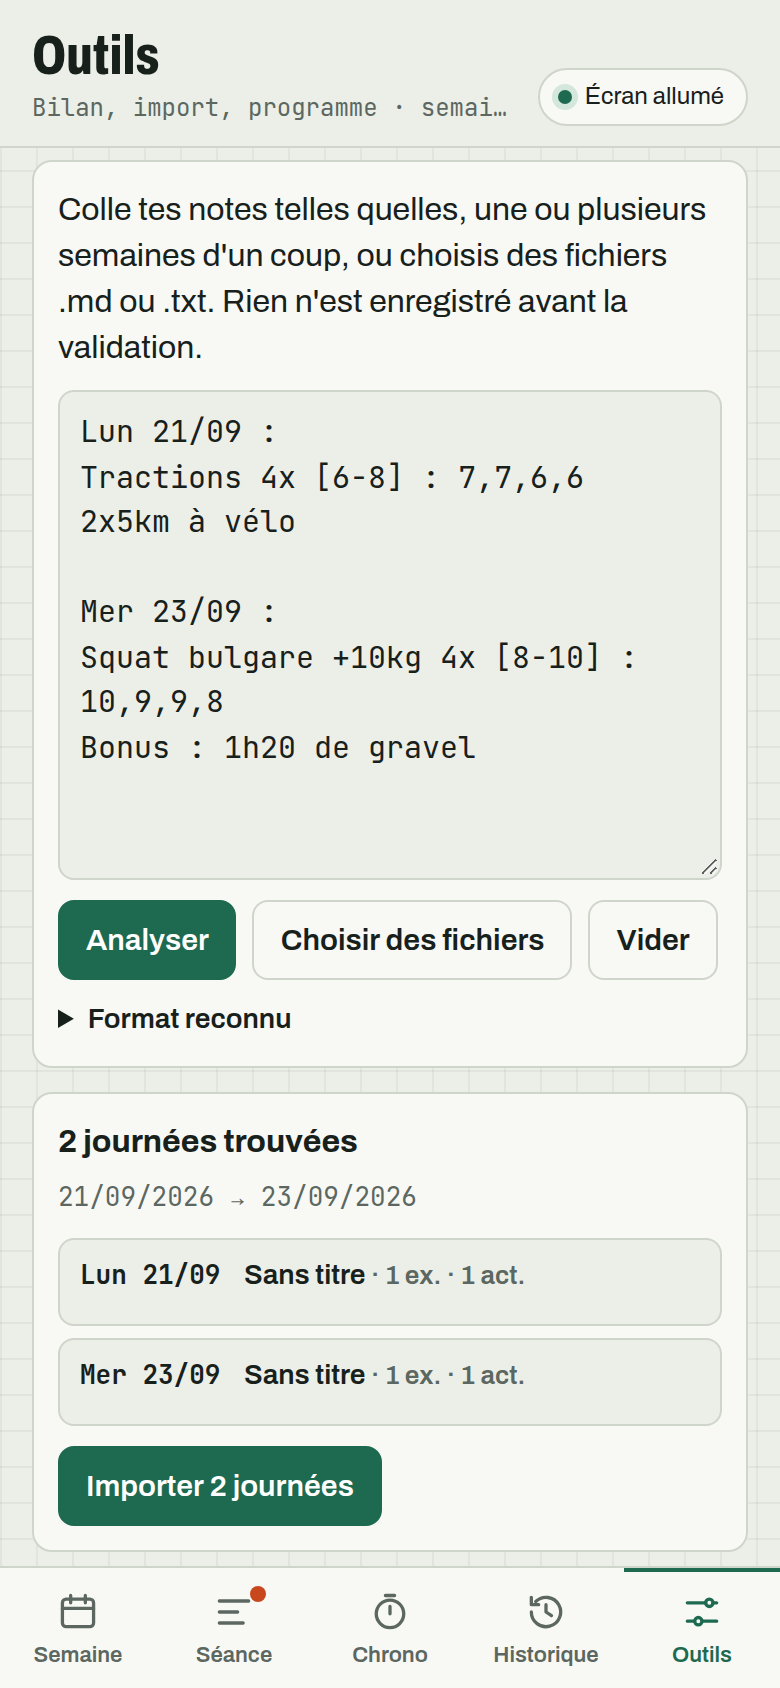
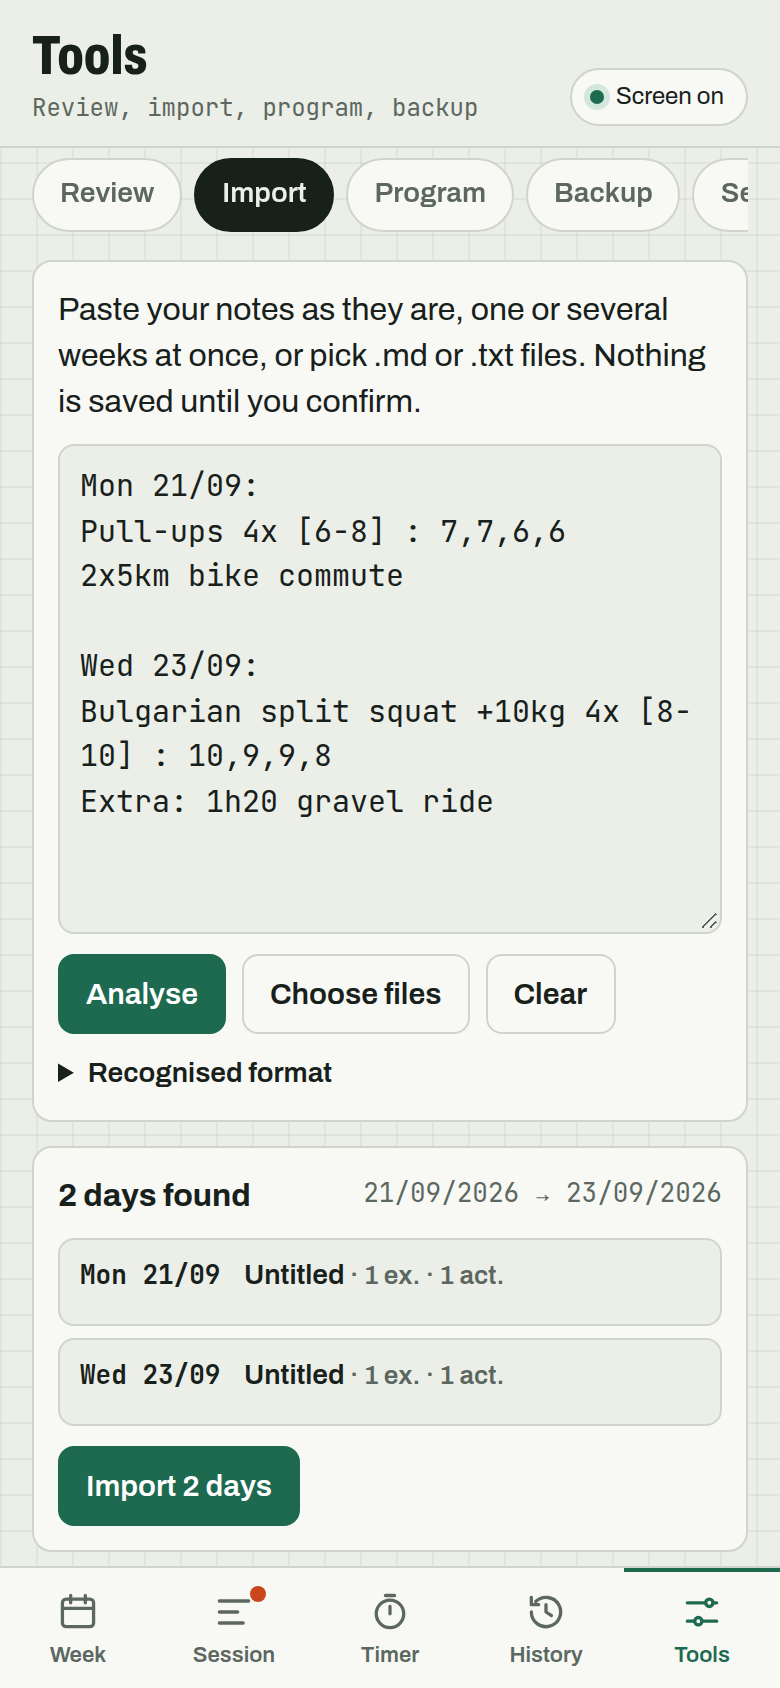
docs(readme): English screenshots, language section and bilingual markers

diff --git a/README.md b/README.md
@@ -15,19 +15,19 @@ Most workout apps make you pick every exercise from a built-in library. If your 
 LightGym sits in between. You write the way you would in a notebook:
 
 ```
-Tractions +12kg 4x [5-6] : 6,5,4,4
+Pull-ups +12kg 4x [5-6] : 6,5,4,4
 ```
 
 The app reads the exercise name, load, number of sets, target range and your results, and highlights the sets that reach the top of the range. It never rejects a line: anything it doesn't understand is kept as a note.
 
 <p align="center">
-  <img src="docs/screenshots/semaine.png" width="220" alt="Week view: done and planned sessions, cycling and running distance">
-  <img src="docs/screenshots/seance.png" width="220" alt="Session in progress: supersets, logged sets and rest timer">
-  <img src="docs/screenshots/chrono.png" width="220" alt="Jump rope interval timer, 60 s work / 20 s rest">
+  <img src="docs/screenshots/week.png" width="220" alt="Week view: done and planned sessions, cycling and running distance">
+  <img src="docs/screenshots/session.png" width="220" alt="Session in progress: supersets, logged sets and rest timer">
+  <img src="docs/screenshots/timer.png" width="220" alt="Jump rope interval timer, 60 s work / 20 s rest">
 </p>
 <p align="center">
-  <img src="docs/screenshots/calendrier.png" width="220" alt="Monthly calendar of sessions and activities">
-  <img src="docs/screenshots/exercice.png" width="220" alt="Exercise history with its progress curve">
+  <img src="docs/screenshots/calendar.png" width="220" alt="Monthly calendar of sessions and activities">
+  <img src="docs/screenshots/exercise.png" width="220" alt="Exercise history with its progress curve">
   <img src="docs/screenshots/import.png" width="220" alt="Notes import: preview of the recognised days">
 </p>
 
@@ -52,27 +52,31 @@ The app reads the exercise name, load, number of sets, target range and your res
 
 ## Your data stays with you
 
-There is no account, no server and no tracking. Everything is stored in your device's browser. You can export and restore a JSON backup from Outils → Sauvegarde (Tools → Backup), which is also how you move between devices.
+There is no account, no server and no tracking. Everything is stored in your device's browser. You can export and restore a JSON backup from Tools → Backup, which is also how you move between devices.
 
 On iPhone or iPad, open the app in Safari, then Share → Add to Home Screen. It then opens full screen and works offline, and Safari no longer clears its data after 7 days without a visit.
+
+## English or French
+
+The interface is available in English and French. It follows your device language by default; you can change it in Tools → Settings. Notes and programs are read in both languages whatever the setting, so `Mon 05/10` and `Lun 05/10`, `Other:` and `Autre :`, `rest 1:30` and `repos 1:30` all work. Markdown exports and review prompts use the interface language.
 
 ## Writing your notes
 
 There is no strict syntax, just a few markers:
 
 ```
-# Semaine du 05/10
+# Week of 05/10
 
-## Lun 05/10 — Upper body
-* Tractions +12kg 4x [5-6] : 6,5,4,4
-* Front lever one-leg 5x [8-12s] : G 12s, D 12s, G 11s, D 11s
+## Mon 05/10 — Upper body
+* Pull-ups +12kg 4x [5-6] : 6,5,4,4
+* Front lever one-leg 5x [8-12s] : L 12s, R 12s, L 11s, R 11s
 * Pistol / Goblet squat 20kg 4x [5-6 / 8-10] : 6/10, 6/10, 5/10
-Autre :
-- Vélo 7 km
-Note : a bit tired.
+Other:
+- Bike 7 km
+Note: a bit tired.
 
-## Mar 06/10 — Cardio
-- Running 3 km en 19 min
+## Tue 06/10 — Cardio
+- Running 3 km in 19 min
 ```
 
 | Marker | Meaning |
@@ -81,31 +85,31 @@ Note : a bit tired.
 | `[5-6]`, `[8-12s]` | target (reps or seconds) |
 | `+12kg`, `20kg` | load |
 | `6,5,4,4` | result of each set |
-| `D 12s`, `G 11s` | right (droite) or left (gauche) side |
+| `L 12s`, `R 11s` | left or right side (`G`/`D` in French) |
 | `6/10` | superset: exercise 1 / exercise 2 |
-| `Autre :` | outside activities |
-| `Note :` | free text |
+| `Other:` | outside activities (cycling, running, hiking, climbing…) |
+| `Note:` | free text |
 
-Dates are written day first (`05/10` is 5 October). When the year is missing, the importer picks the one that keeps the date out of the future. The app's Markdown export can be imported back as is.
+Dates are written day first (`05/10` is 5 October). When the year is missing, the importer picks the one that keeps the date out of the future. A day can also start with `Mon 05/10:` or `Monday 14` when the week is given, and the older `4x Pull-ups 12kg : Target 4-6` followed by `- 6,5,5,4` is understood too. The app's Markdown export can be imported back as is.
 
 ## Writing your program
 
 ```
-## Lundi — Pull
-Bloc 1 · skill | repos 2:30
+## Monday — Pull
+Block 1 · skill | rest 2:30
 - Front lever one-leg 5x [8-12s]
-Superset A · noyau | 4 tours | repos 1:30
+Superset A · core | 4 rounds | rest 1:30
 - Strict pull-ups [8-10]
 - Kettlebell swing 20 kg [15]
-Superset B · bonus | 3 tours | repos 1:30
+Superset B · bonus | 3 rounds | rest 1:30
 - Ring rows [10-12]
 - Gorilla row KB [8-10 / arm]
 
-## Mardi — Cardio
+## Tuesday — Cardio
 - Running : 3-4 km easy
 ```
 
-A heading that starts with a weekday suggests that session on that day. Without a weekday, the template is available any time. `noyau` marks a core block, `bonus` an optional one, `tours` the number of rounds and `repos` the rest time. An example program loads on first launch.
+A heading that starts with a weekday suggests that session on that day. Without a weekday, the template is available any time. `core` marks a block you always do, `bonus` one you can skip, `skill` a technique block that gets the longer rest. An example program loads on first launch.
 
 ## Running the project
 
@@ -126,6 +130,6 @@ The app is a static site. On [Vercel](https://vercel.com), import the repository
 
 ## Current limits
 
-- The interface and the note markers are in French for now. An English interface and English markers (`Mon`, `Other:`, `rest`, `rounds`) are in progress.
+- Dates are always day first (`05/10` is 5 October), including in English.
 - There is no automatic sync between devices; the JSON backup is the way to move data.
 - Progress curves only count single values. A per-side value such as `4/4` is shown but not plotted.
